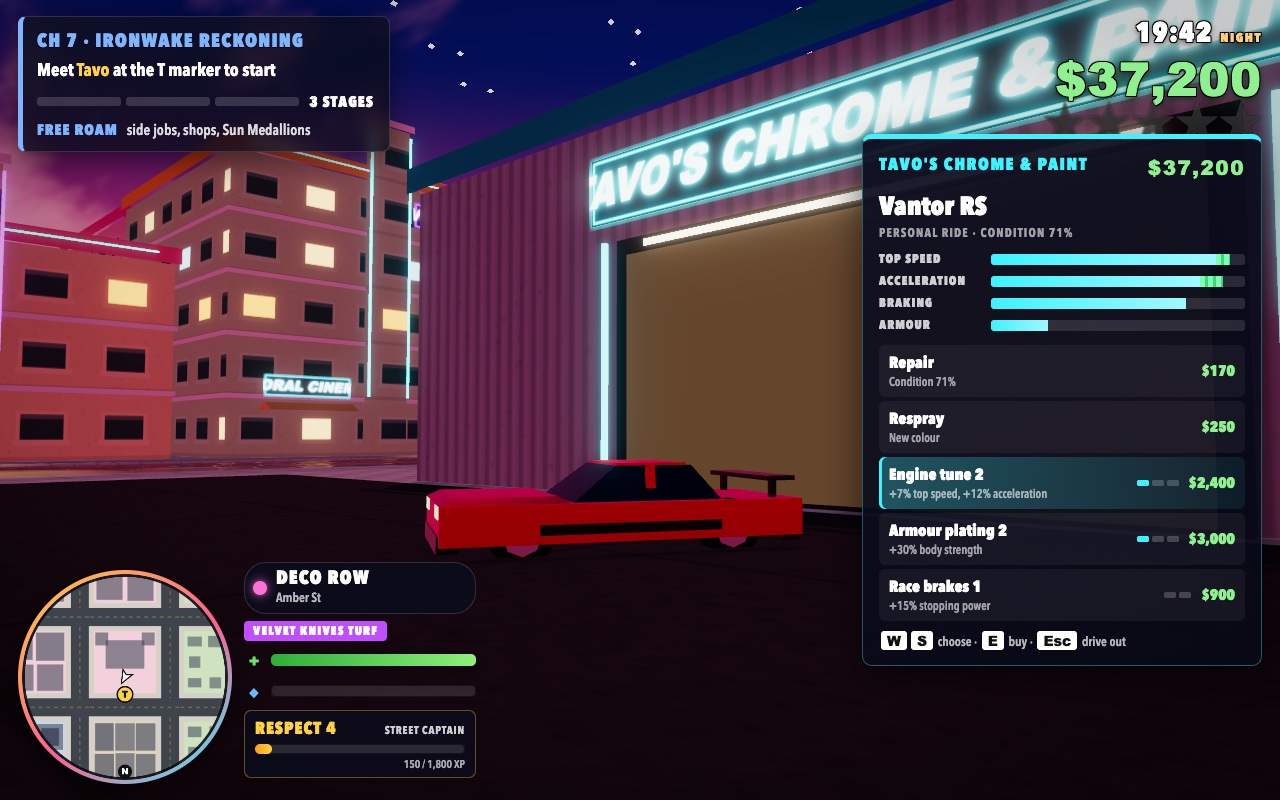
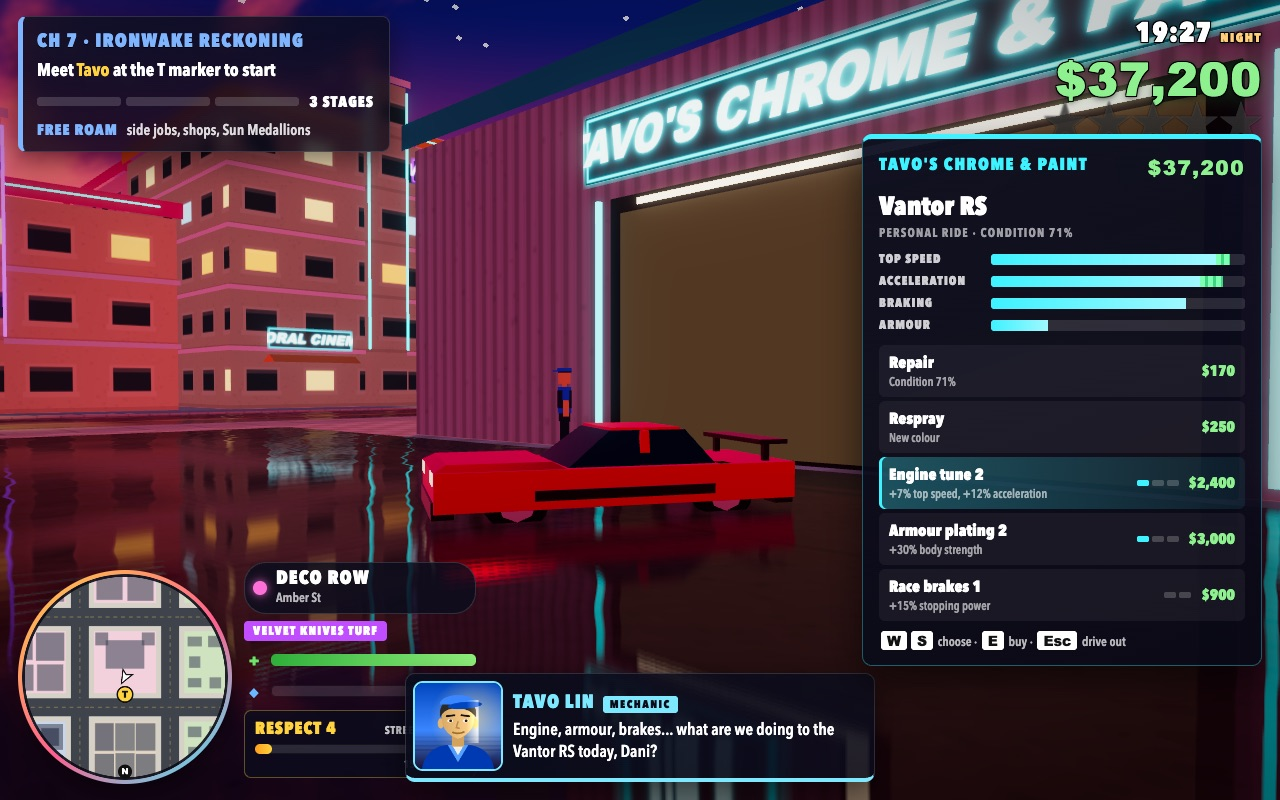
Tavo waits at his garage; paved lots get wet at night too
Tavo stands at the workshop door and greets Dani when the upgrade menu
opens. Wet reflections now also cover paved lots and forecourts, and only
on surfaces that face the sky. Recaptured the garage screenshot.

diff --git a/game/src/shops/garage.js b/game/src/shops/garage.js
@@ -2,10 +2,13 @@
 // the workshop menu (ui/garageMenu.js). Services: repair, a respray that loses the police
 // (new colour, wanted level cleared), three stages of engine tune, armour plating and race
 // brakes, each tier gated by respect rank. An upgraded car becomes Dani's personal ride and is
-// saved with the game.
+// saved with the game. Tavo himself waits at the workshop door in his cap and overalls.
 import { LANDMARKS } from '../world/cityLayout.js';
 import { createMarker } from '../gameplay/markers.js';
 import { VEHICLE_TYPES } from '../vehicles/vehicleTypes.js';
+import { Human } from '../characters/human.js';
+
+const TAVO_LOOK = { skin: '#f1c27d', hair: '#2b2b2b', shirt: '#3a86ff', pants: '#1d2b44', shoes: '#111111', vest: '#24324f', hairStyle: 0, height: 1.02, hat: '#3a86ff' };
 
 const RESPRAY_COLORS = ['#ff6b1a', '#e0115f', '#00b4d8', '#ffd23f', '#7b2cbf', '#2d6a4f', '#f8f9fa', '#111111', '#3a86ff'];
 
@@ -43,6 +46,14 @@ export function carStats(car, preview = null) {
 export function createGarage(game) {
   const bay = { x: LANDMARKS.tavoGarage.x, z: LANDMARKS.tavoGarage.z - 13 };
   const marker = createMarker(game, bay.x, bay.z, '#3ef2ff', { radius: 3.4, height: 5, label: "Tavo's Chrome & Paint" });
+  let tavo = null;
+
+  /** Puts Tavo at his workshop door, facing the bay, once Dani has met him. */
+  function placeTavo() {
+    if (tavo) return;
+    tavo = new Human(game, { x: bay.x + 6.2, z: bay.z + 6.4, heading: Math.PI * 0.8, look: TAVO_LOOK, role: 'npc', health: 5000 });
+    tavo.syncMesh(0);
+  }
 
   function repairPrice(car) { return Math.round((1 - car.condition) * 400 / 10) * 10 + 50; }
 
@@ -102,10 +113,11 @@ export function createGarage(game) {
     const p = game.player;
     const open = game.state.storyProgress >= 2;
     marker.setVisible(open);
+    if (open) placeTavo();
     if (!open || !p.vehicle || !marker.contains(p.x, p.z, 1) || game.missions.active?.blocksShops) return null;
     if (input.pressed('interact')) game.ui.openGarage();
     return "Press E to open Tavo's workshop";
   }
 
-  return { bay, marker, services, buy, update, stats: carStats, upgrades: UPGRADES };
+  return { bay, marker, services, buy, update, placeTavo, stats: carStats, upgrades: UPGRADES };
 }

diff --git a/game/src/render/wetRoads.js b/game/src/render/wetRoads.js
@@ -1,6 +1,6 @@
 // Rain-slick streets after dark: the city is rendered a second time from a camera mirrored in
 // the road plane (y = 0) into a half-resolution target, and the asphalt materials sample it with
-// a little ripple, a Fresnel falloff and patchy puddles, so neon signs, lit windows, headlights
+// a little ripple, a Fresnel falloff and patchy puddles (on roads, crossings and paved lots), so neon signs, lit windows, headlights
 // and police light bars smear across the wet road. Wetness follows the night factor.
 import * as THREE from 'three';
 
@@ -41,10 +41,13 @@ const PATCH_FRAG_BODY = /* glsl */`
     refl += texture2D(tReflect, ruv - vec2(0.0, streak * 2.2)).rgb * 0.13;
     refl += texture2D(tReflect, ruv + vec2(0.0, streak * 3.6)).rgb * 0.05;
     refl += texture2D(tReflect, ruv - vec2(0.0, streak * 3.6)).rgb * 0.05;
-    float facing = clamp(dot(normalize(vViewPosition), normalize((viewMatrix * vec4(0.0, 1.0, 0.0, 0.0)).xyz)), 0.0, 1.0);
+    vec3 viewUp = normalize((viewMatrix * vec4(0.0, 1.0, 0.0, 0.0)).xyz);
+    float facing = clamp(dot(normalize(vViewPosition), viewUp), 0.0, 1.0);
+    // Only surfaces that face the sky hold water (never kerb sides or walls).
+    float level = smoothstep(0.9, 0.99, dot(normal, viewUp));
     float fresnel = 0.18 + 0.82 * pow(1.0 - facing, 4.0);
-    float amount = uWet * fresnel * mix(0.55, 1.0, puddle);
-    outgoingLight = outgoingLight * (1.0 - uWet * 0.3) + refl * amount;
+    float amount = uWet * fresnel * mix(0.55, 1.0, puddle) * level;
+    outgoingLight = outgoingLight * (1.0 - uWet * 0.3 * level) + refl * amount;
   }
 `;
 
@@ -71,7 +74,7 @@ export function createWetRoads(renderer, scene, materials) {
     uReflectMatrix: { value: new THREE.Matrix4() },
     uWet: { value: 0 },
   };
-  for (const m of [materials.road, materials.crossing]) makeWet(m, shared);
+  for (const m of [materials.road, materials.crossing, materials.concrete]) makeWet(m, shared);
   // Keep only what stands above the road surface: the road itself, lamp pools and headlight
   // splashes on it, and everything below ground never reach the mirror.
   const clip = [new THREE.Plane(new THREE.Vector3(0, 1, 0), -0.1)];

diff --git a/game/src/shots/shotScenes.js b/game/src/shots/shotScenes.js
@@ -193,7 +193,7 @@ const SCENES = {
   },
 
   garage(game, tools) {
-    prepare(game, 19.7, 6, { respect: 2750 });
+    prepare(game, 19.45, 6, { respect: 2750 });
     const p = game.player;
     game.audio.radio.setStation(1);
     giveWeapon(p.inventory, 'pistol', 60);
@@ -211,7 +211,7 @@ const SCENES = {
     game.ui.openGarage();
     game.garageMenu.select(2);
     // A low three-quarter view of the car on the forecourt, the lit workshop door behind it.
-    game.camera.setPose(car.x - 7.5, 1.5, car.z - 7.5, car.x + 3.2, 2.2, car.z + 4, 52);
+    game.camera.setPose(car.x - 7.2, 1.7, car.z - 7.2, car.x + 3.4, 1.4, car.z + 4.4, 54);
     clearLens(game, 4);
   },
 };

diff --git a/game/src/ui/garageMenu.js b/game/src/ui/garageMenu.js
@@ -80,6 +80,8 @@ export function createGarageMenu(game, { onClose }) {
       // The menu takes the right of the screen: the radio and vehicle cards and the bay marker step aside.
       document.getElementById('hud').classList.add('garage-open');
       game.garage.marker.setVisible(false);
+      game.garage.placeTavo();
+      game.dialogue.say([{ who: 'tavo', text: game.wanted.level ? "Inside, quick! Fresh paint and new plates, and they'll never know it was you." : `Engine, armour, brakes... what are we doing to the ${car().type.name} today, Dani?` }]);
       render();
     },
     close,
